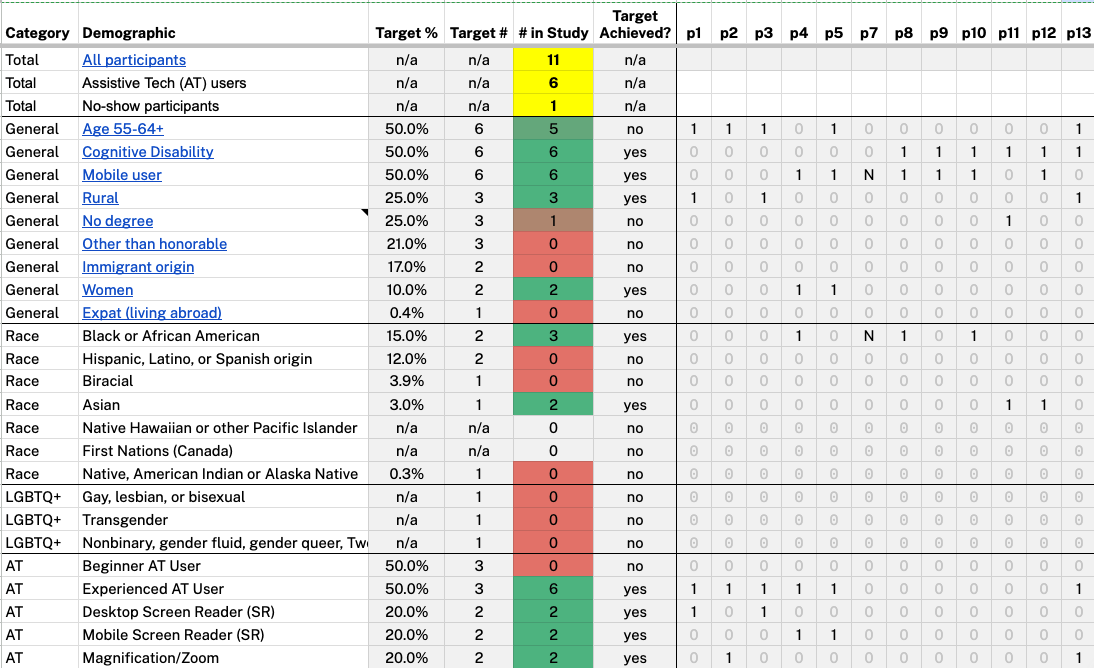
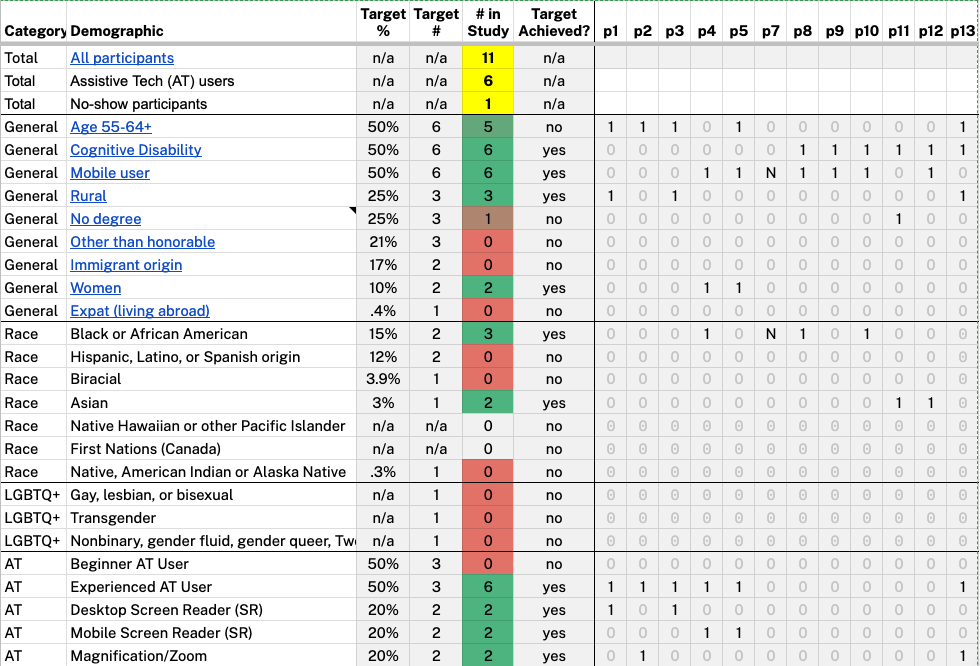
removed leading and trailing zeroes in percentages

Changed region(s): [[0.0, 0.0, 1.0, 1.0]]

diff --git a/teams/digital-experience/ADE/research/2025-05-save-in-progress/research-report.md b/teams/digital-experience/ADE/research/2025-05-save-in-progress/research-report.md
@@ -679,30 +679,30 @@ This research does not include the perspectives of the following marginalized Ve
 | Total | All participants | n/a | n/a | 11 | n/a |   |   |   |   |   |   |   |   |   |   |   |   |
 | Total | Assistive Tech (AT) users | n/a | n/a | 6 | n/a |   |   |   |   |   |   |   |   |   |   |   |   |
 | Total | No-show participants | n/a | n/a | 1 | n/a |   |   |   |   |   |   |   |   |   |   |   |   |
-| General | Age 55-64+ | 50.0% | 6 | 5 | no | 1 | 1 | 1 | 0 | 1 | 0 | 0 | 0 | 0 | 0 | 0 | 1 |
-| General | Cognitive Disability | 50.0% | 6 | 6 | yes | 0 | 0 | 0 | 0 | 0 | 0 | 1 | 1 | 1 | 1 | 1 | 1 |
-| General | Mobile user | 50.0% | 6 | 6 | yes | 0 | 0 | 0 | 1 | 1 | N | 1 | 1 | 1 | 0 | 1 | 0 |
-| General | Rural | 25.0% | 3 | 3 | yes | 1 | 0 | 1 | 0 | 0 | 0 | 0 | 0 | 0 | 0 | 0 | 1 |
-| General | No degree | 25.0% | 3 | 1 | no | 0 | 0 | 0 | 0 | 0 | 0 | 0 | 0 | 0 | 1 | 0 | 0 |
-| General | Other than honorable | 21.0% | 3 | 0 | no | 0 | 0 | 0 | 0 | 0 | 0 | 0 | 0 | 0 | 0 | 0 | 0 |
-| General | Immigrant origin | 17.0% | 2 | 0 | no | 0 | 0 | 0 | 0 | 0 | 0 | 0 | 0 | 0 | 0 | 0 | 0 |
-| General | Women | 10.0% | 2 | 2 | yes | 0 | 0 | 0 | 1 | 1 | 0 | 0 | 0 | 0 | 0 | 0 | 0 |
-| General | Expat (living abroad) | 0.4% | 1 | 0 | no | 0 | 0 | 0 | 0 | 0 | 0 | 0 | 0 | 0 | 0 | 0 | 0 |
-| Race | Black or African American | 15.0% | 2 | 3 | yes | 0 | 0 | 0 | 1 | 0 | N | 1 | 0 | 1 | 0 | 0 | 0 |
-| Race | Hispanic, Latino, or Spanish origin | 12.0% | 2 | 0 | no | 0 | 0 | 0 | 0 | 0 | 0 | 0 | 0 | 0 | 0 | 0 | 0 |
+| General | Age 55-64+ | 50% | 6 | 5 | no | 1 | 1 | 1 | 0 | 1 | 0 | 0 | 0 | 0 | 0 | 0 | 1 |
+| General | Cognitive Disability | 50% | 6 | 6 | yes | 0 | 0 | 0 | 0 | 0 | 0 | 1 | 1 | 1 | 1 | 1 | 1 |
+| General | Mobile user | 50% | 6 | 6 | yes | 0 | 0 | 0 | 1 | 1 | N | 1 | 1 | 1 | 0 | 1 | 0 |
+| General | Rural | 25% | 3 | 3 | yes | 1 | 0 | 1 | 0 | 0 | 0 | 0 | 0 | 0 | 0 | 0 | 1 |
+| General | No degree | 25% | 3 | 1 | no | 0 | 0 | 0 | 0 | 0 | 0 | 0 | 0 | 0 | 1 | 0 | 0 |
+| General | Other than honorable | 21% | 3 | 0 | no | 0 | 0 | 0 | 0 | 0 | 0 | 0 | 0 | 0 | 0 | 0 | 0 |
+| General | Immigrant origin | 17% | 2 | 0 | no | 0 | 0 | 0 | 0 | 0 | 0 | 0 | 0 | 0 | 0 | 0 | 0 |
+| General | Women | 10% | 2 | 2 | yes | 0 | 0 | 0 | 1 | 1 | 0 | 0 | 0 | 0 | 0 | 0 | 0 |
+| General | Expat (living abroad) | .4% | 1 | 0 | no | 0 | 0 | 0 | 0 | 0 | 0 | 0 | 0 | 0 | 0 | 0 | 0 |
+| Race | Black or African American | 15% | 2 | 3 | yes | 0 | 0 | 0 | 1 | 0 | N | 1 | 0 | 1 | 0 | 0 | 0 |
+| Race | Hispanic, Latino, or Spanish origin | 12% | 2 | 0 | no | 0 | 0 | 0 | 0 | 0 | 0 | 0 | 0 | 0 | 0 | 0 | 0 |
 | Race | Biracial | 3.9% | 1 | 0 | no | 0 | 0 | 0 | 0 | 0 | 0 | 0 | 0 | 0 | 0 | 0 | 0 |
-| Race | Asian | 3.0% | 1 | 2 | yes | 0 | 0 | 0 | 0 | 0 | 0 | 0 | 0 | 0 | 1 | 1 | 0 |
+| Race | Asian | 3% | 1 | 2 | yes | 0 | 0 | 0 | 0 | 0 | 0 | 0 | 0 | 0 | 1 | 1 | 0 |
 | Race | Native Hawaiian or other Pacific Islander | n/a | n/a | 0 | no | 0 | 0 | 0 | 0 | 0 | 0 | 0 | 0 | 0 | 0 | 0 | 0 |
 | Race | First Nations (Canada) | n/a | n/a | 0 | no | 0 | 0 | 0 | 0 | 0 | 0 | 0 | 0 | 0 | 0 | 0 | 0 |
-| Race | Native, American Indian or Alaska Native | 0.3% | 1 | 0 | no | 0 | 0 | 0 | 0 | 0 | 0 | 0 | 0 | 0 | 0 | 0 | 0 |
+| Race | Native, American Indian or Alaska Native | .3% | 1 | 0 | no | 0 | 0 | 0 | 0 | 0 | 0 | 0 | 0 | 0 | 0 | 0 | 0 |
 | LGBTQ+ | Gay, lesbian, or bisexual | n/a | 1 | 0 | no | 0 | 0 | 0 | 0 | 0 | 0 | 0 | 0 | 0 | 0 | 0 | 0 |
 | LGBTQ+ | Transgender | n/a | 1 | 0 | no | 0 | 0 | 0 | 0 | 0 | 0 | 0 | 0 | 0 | 0 | 0 | 0 |
 | LGBTQ+ | Nonbinary, gender fluid, gender queer, Two-Spirit (Indigenous only), or another gender beyond man or woman | n/a | 1 | 0 | no | 0 | 0 | 0 | 0 | 0 | 0 | 0 | 0 | 0 | 0 | 0 | 0 |
-| AT | Beginner AT User | 50.0% | 3 | 0 | no | 0 | 0 | 0 | 0 | 0 | 0 | 0 | 0 | 0 | 0 | 0 | 0 |
-| AT | Experienced AT User | 50.0% | 3 | 6 | yes | 1 | 1 | 1 | 1 | 1 | 0 | 0 | 0 | 0 | 0 | 0 | 1 |
-| AT | Desktop Screen Reader (SR) | 20.0% | 2 | 2 | yes | 1 | 0 | 1 | 0 | 0 | 0 | 0 | 0 | 0 | 0 | 0 | 0 |
-| AT | Mobile Screen Reader (SR) | 20.0% | 2 | 2 | yes | 0 | 0 | 0 | 1 | 1 | 0 | 0 | 0 | 0 | 0 | 0 | 0 |
-| AT | Magnification/Zoom | 20.0% | 2 | 2 | yes | 0 | 1 | 0 | 0 | 0 | 0 | 0 | 0 | 0 | 0 | 0 | 1 |
+| AT | Beginner AT User | 50% | 3 | 0 | no | 0 | 0 | 0 | 0 | 0 | 0 | 0 | 0 | 0 | 0 | 0 | 0 |
+| AT | Experienced AT User | 50% | 3 | 6 | yes | 1 | 1 | 1 | 1 | 1 | 0 | 0 | 0 | 0 | 0 | 0 | 1 |
+| AT | Desktop Screen Reader (SR) | 20% | 2 | 2 | yes | 1 | 0 | 1 | 0 | 0 | 0 | 0 | 0 | 0 | 0 | 0 | 0 |
+| AT | Mobile Screen Reader (SR) | 20% | 2 | 2 | yes | 0 | 0 | 0 | 1 | 1 | 0 | 0 | 0 | 0 | 0 | 0 | 0 |
+| AT | Magnification/Zoom | 20% | 2 | 2 | yes | 0 | 1 | 0 | 0 | 0 | 0 | 0 | 0 | 0 | 0 | 0 | 1 |
 
 ---
 Old version below...
